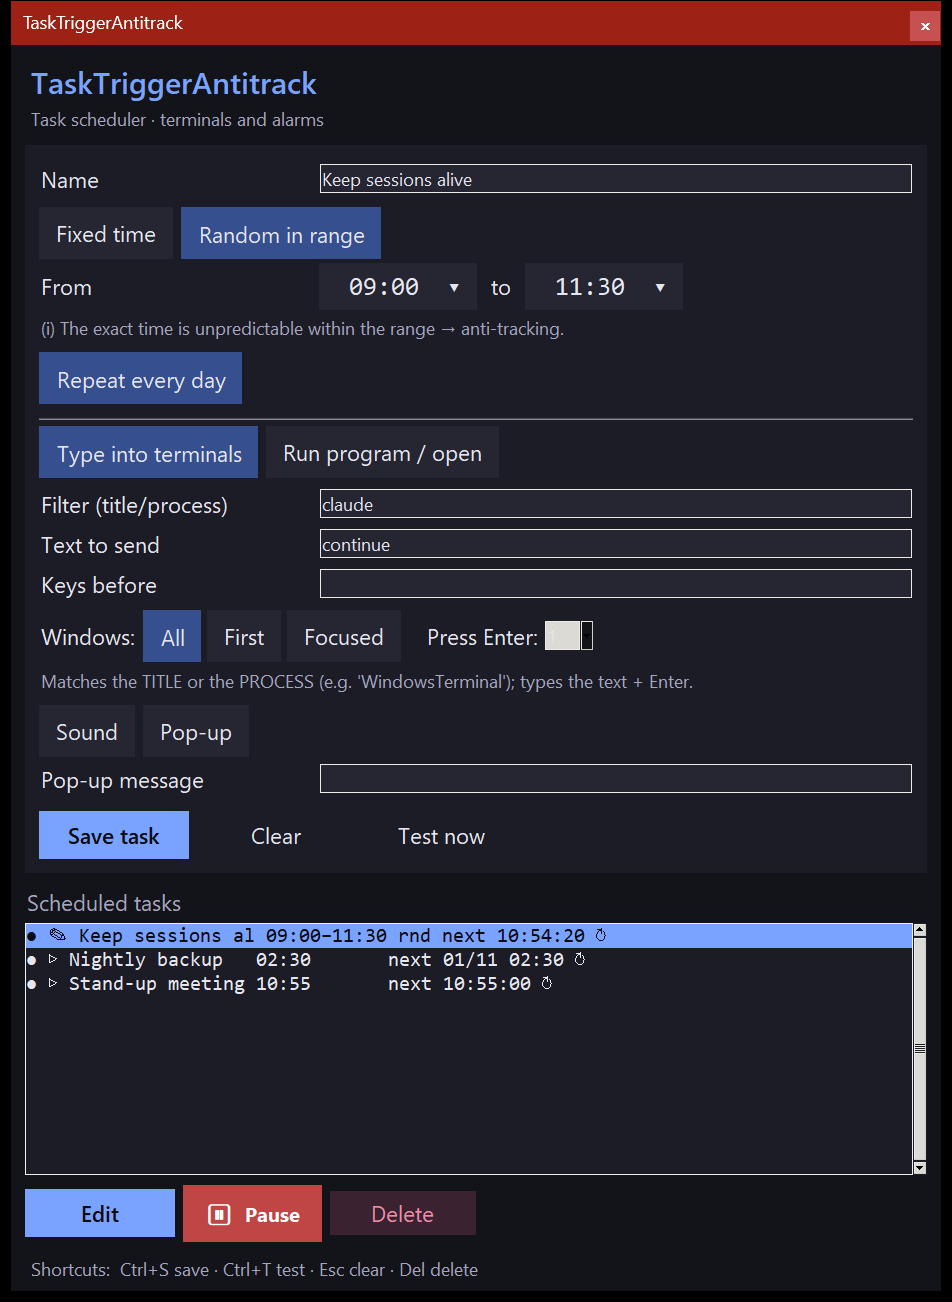
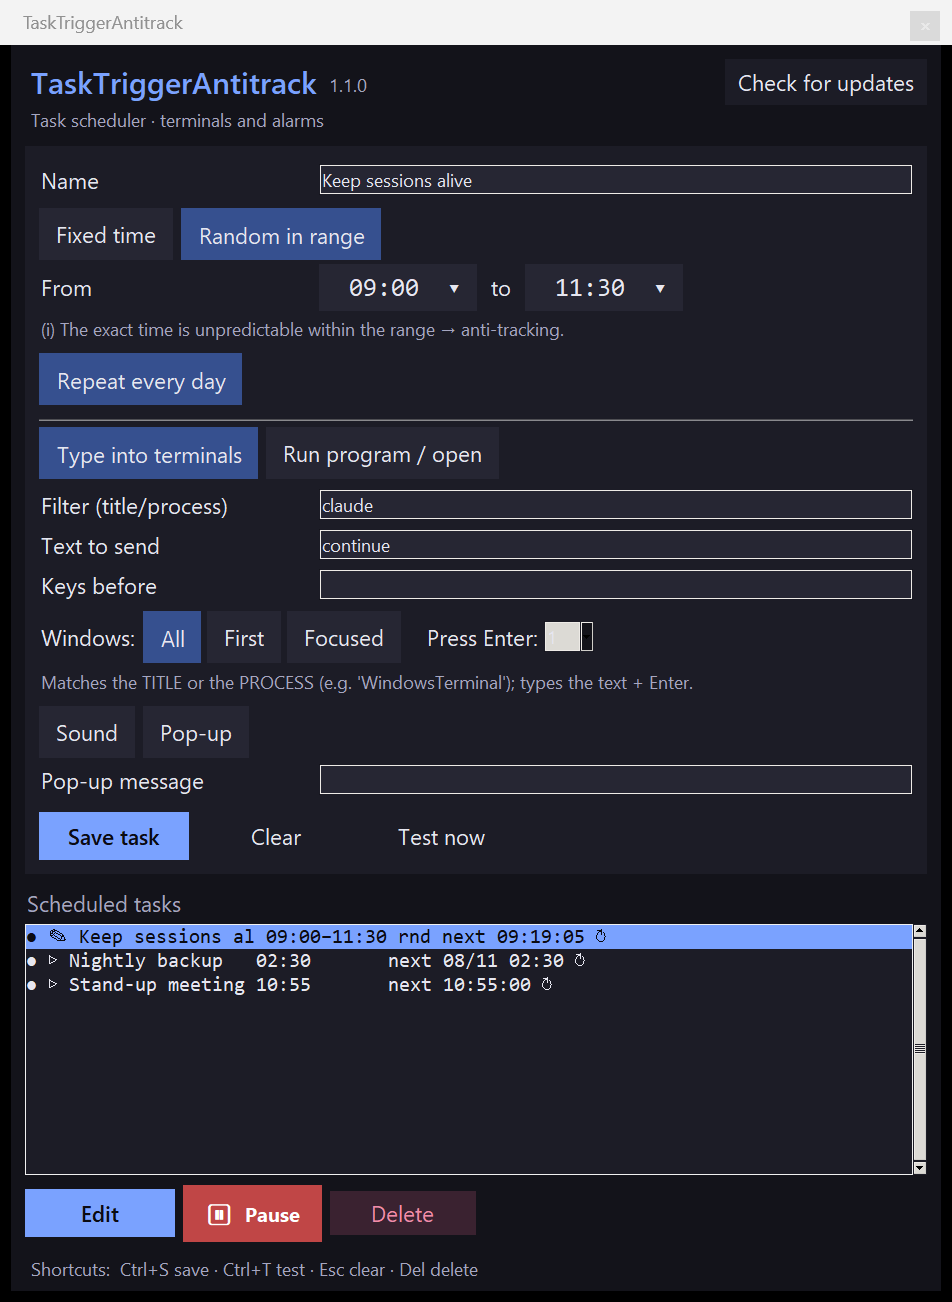
Version 1.1.0: the Check for updates button on the front page
Version number 1.1.0 and its changelog entry. The README in English and
Spanish says on the front page that the button is the app's only network
connection, made only when pressed. New screenshot with the new header
(English interface, invented tasks).

Claude-Session: https://claude.ai/code/session_01St6UgnHsZyv2JC7j85kTtF

diff --git a/tasktriggerantitrack.py b/tasktriggerantitrack.py
@@ -20,7 +20,7 @@ Sin dependencias pip: solo stdlib (tkinter, ctypes en Windows; xdotool en Linux
 para teclear en ventanas; aplay/paplay para sonido).
 """
 
-__version__ = "1.0.0"
+__version__ = "1.1.0"
 
 import os
 import sys

diff --git a/CHANGELOG.md b/CHANGELOG.md
@@ -1,6 +1,6 @@
 # Changelog
 
-## Unreleased
+## 1.1.0 — 2026-11-07
 
 ### Added
 - **Check for updates** button (top right): asks GitHub for the latest release, only when pressed,
@@ -13,6 +13,13 @@
   Downloads and the release page opens. `alarms.json`, `error.log` and the sound are never
   overwritten. It is the app's only internet connection.
 - The version number next to the title.
+- Interface texts for the button in all 15 languages, and tests of the update check, the download, the
+  installation and the git update, with the network simulated and local git repositories.
+
+### Security
+- No vulnerabilities fixed in this version: none were known in 1.0.0. The update check only uses HTTPS
+  to GitHub's own hosts (redirects included), sends a generic User-Agent and no personal data, and
+  refuses archives with paths outside the app's folder.
 
 ## 1.0.0 — 2026-11-02
 

diff --git a/README.es.md b/README.es.md
@@ -13,6 +13,9 @@ a una hora dispara una acción. Fusiona dos herramientas:
   terminales abiertas cuyo título case un filtro (reanudar
   [Claude Code](https://claude.com/claude-code) cuando se restablece el límite de uso).
 
+El botón **Buscar actualizaciones** trae de GitHub las versiones nuevas. Es la **única conexión de
+red** de la app y solo se hace cuando lo pulsas ([detalles](#buscar-actualizaciones)).
+
 ![Windows](https://img.shields.io/badge/Windows-10%2F11-0078D6) ![Linux](https://img.shields.io/badge/Linux-X11-FCC624) ![Python](https://img.shields.io/badge/Python-3.8%2B-3776AB) ![License](https://img.shields.io/badge/license-MIT-green)
 
 ## Qué hace cada tarea

diff --git a/README.md b/README.md
@@ -13,6 +13,9 @@ at a given time. It merges two tools:
   terminal whose title matches a filter (to resume
   [Claude Code](https://claude.com/claude-code) when the usage limit resets).
 
+The **Check for updates** button fetches new versions from GitHub. It is the app's **only network
+connection**, and it is made only when you press it ([details](#checking-for-updates)).
+
 ![Windows](https://img.shields.io/badge/Windows-10%2F11-0078D6) ![Linux](https://img.shields.io/badge/Linux-X11-FCC624) ![Python](https://img.shields.io/badge/Python-3.8%2B-3776AB) ![License](https://img.shields.io/badge/license-MIT-green)
 
 ## What each task does
